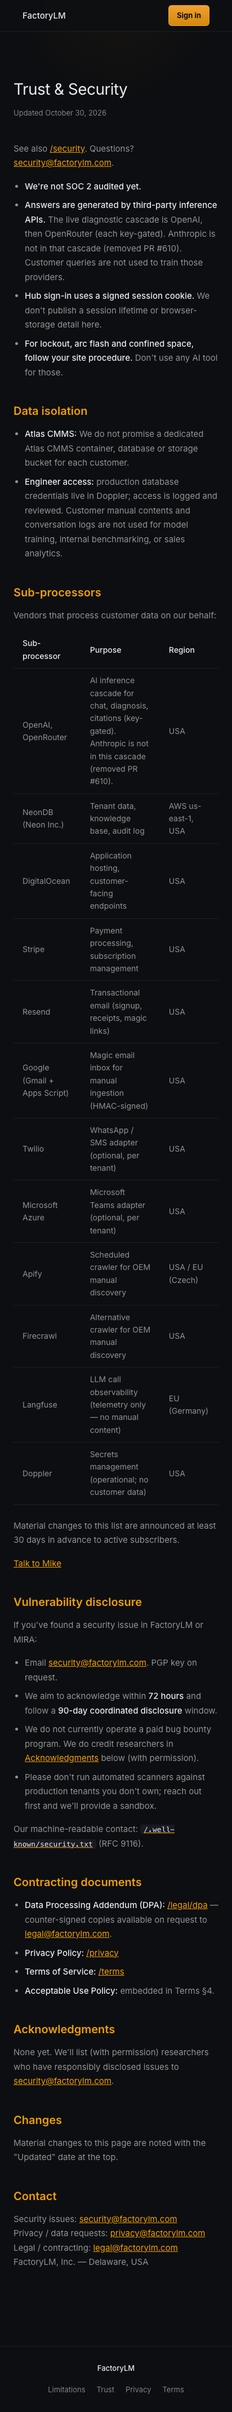
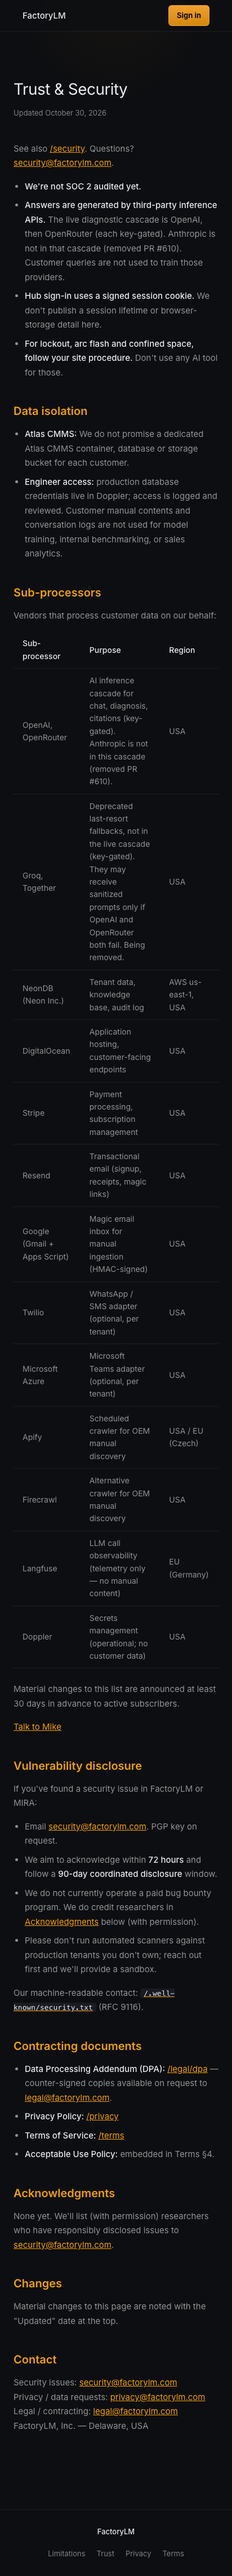
fix(web): /trust still discloses Groq/Together as deprecated last-resort fallbacks (#5008 Codex F1)
Their prd keys are still configured, so the router can reach them if OpenAI and OpenRouter
both fail. The live-cascade sentence stays OpenAI then OpenRouter. The sub-processor table now
carries a labeled deprecated-fallback row, pinned by a disclosure test (mutations: row removed,
label dropped, Groq back in the live sentence; each turns red).

Claude-Session: https://claude.ai/code/session_01QHPC3jNTCNuZN4BwUacdei

diff --git a/mira-web/src/views/__tests__/honest-claims.test.ts b/mira-web/src/views/__tests__/honest-claims.test.ts
@@ -613,6 +613,9 @@ describe("public marketing copy — don't-say list and no published prices", () 
  * OpenRouter, and nothing else (root CLAUDE.md Hard Constraint #2). Groq
  * (deprecated 2026-10-14) and Together (deprecated 2026-10-25) are billing-dead
  * and must never be described as live or as processing chat/diagnosis data.
+ * Their keys are still configured, though, so the router can reach them as
+ * last-resort fallbacks (#5008 Codex F1). The sub-processor table must therefore
+ * still DISCLOSE them, labeled deprecated, until the router entries are removed.
  */
 const DEPRECATED_PROVIDERS = ["Groq", "Together"] as const;
 
@@ -671,6 +674,19 @@ describe("/trust names only the live OpenAI→OpenRouter cascade (#5005)", () =>
     const trust = readPublic("trust.html");
     expect(trust).toContain("The live diagnostic cascade is");
     expect(trustCascadeViolations(trust)).toEqual([]);
+  });
+
+  test("the shipped /trust page still discloses Groq and Together as deprecated fallbacks", () => {
+    const trust = readPublic("trust.html");
+    const rows = [...trust.matchAll(/<tr>([\s\S]*?)<\/tr>/g)].map((m) =>
+      m[1].replace(/<[^>]+>/g, " ").replace(/\s+/g, " ")
+    );
+    for (const p of DEPRECATED_PROVIDERS) {
+      const disclosed = rows.filter((r) => new RegExp(`\\b${p}\\b`).test(r));
+      expect(disclosed.length, `${p} must be disclosed while its key can reach the router`).toBe(1);
+      expect(disclosed[0]).toMatch(/deprecated/i);
+      expect(disclosed[0]).toMatch(/fallback/i);
+    }
   });
 
   test("planted: the pre-#5005 sentence and row are both rejected", () => {

diff --git a/mira-web/public/trust.html b/mira-web/public/trust.html
@@ -167,6 +167,11 @@
               <td>USA</td>
             </tr>
             <tr>
+              <td>Groq, Together</td>
+              <td>Deprecated last-resort fallbacks, not in the live cascade (key-gated). They may receive sanitized prompts only if OpenAI and OpenRouter both fail. Being removed.</td>
+              <td>USA</td>
+            </tr>
+            <tr>
               <td>NeonDB (Neon Inc.)</td>
               <td>Tenant data, knowledge base, audit log</td>
               <td>AWS us-east-1, USA</td>
